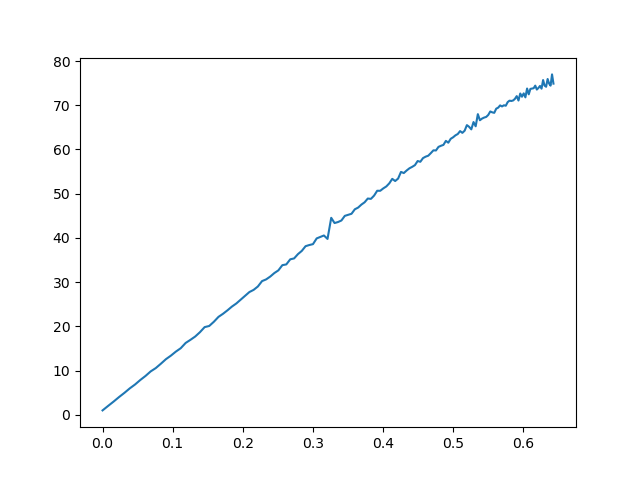
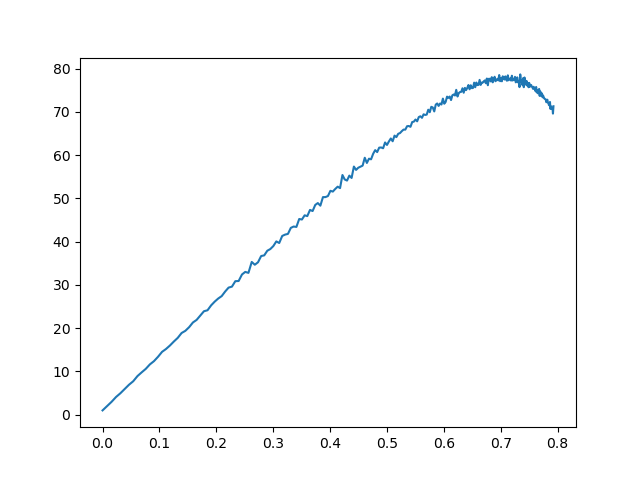
фильтр работает

diff --git a/scripts/talker.py b/scripts/talker.py
@@ -48,6 +48,8 @@ y = []
 dx_arr = []
 dy_arr = []
 fi_ref_arr = []
+fi_ref_filtered_arr = []
+
  
 def init():
     x_k = 0
@@ -76,7 +78,6 @@ def high_pass_filter(in_cur, out_prev, T, dt):
  
 def go_to_point(x_k, y_k, fi_k, x_ref, y_ref, v, dt):
     global x,y
-    global dx_arr, dy_arr, fi_ref_arr
  
     coeff = 1
     
@@ -93,6 +94,9 @@ def go_to_point(x_k, y_k, fi_k, x_ref, y_ref, v, dt):
     
  
 def talker():
+    global dx_arr, dy_arr, fi_ref_arr, fi_ref_filtered_arr
+
+    
     pub = rospy.Publisher('omega_chatter', Float64, queue_size=10)
     rospy.init_node('talker', anonymous=True)
     rate = rospy.Rate(100) # 10hz
@@ -138,11 +142,11 @@ def talker():
         phi_xy_filtered = low_pass_filter(phi_xy, phi_xy_filtered_prev, 0.1, dt)
 
         fi_ref_arr.append(phi_xy)
-
+        fi_ref_filtered_arr.append(phi_xy_filtered)
 
         x_k_prev = x_k
         y_k_prev = x_k
-        phi_xy_filtered = phi_xy_filtered
+        phi_xy_filtered_prev = phi_xy_filtered
 
         publish_str1 = "\nNO NOISE: {:.5f}".format(x_k) + ' ' + "{:.5f}".format(y_k) + ' ' + "{:.5f}".format(fi_k)
         publish_str2 = "NOISE:    {:.5f}".format(x_k_noise) + ' ' + "{:.5f}".format(y_k_noise) + ' ' + "{:.5f}".format(fi_k_noise)
@@ -169,4 +173,8 @@ if __name__ == '__main__':
     plt.clf()
     
     plt.plot(fi_ref_arr)
-    plt.savefig('fi.png')
+    plt.savefig('fi_ref.png')
+    plt.clf()
+
+    plt.plot(fi_ref_filtered_arr)
+    plt.savefig('fi_ref_filtered.png')
